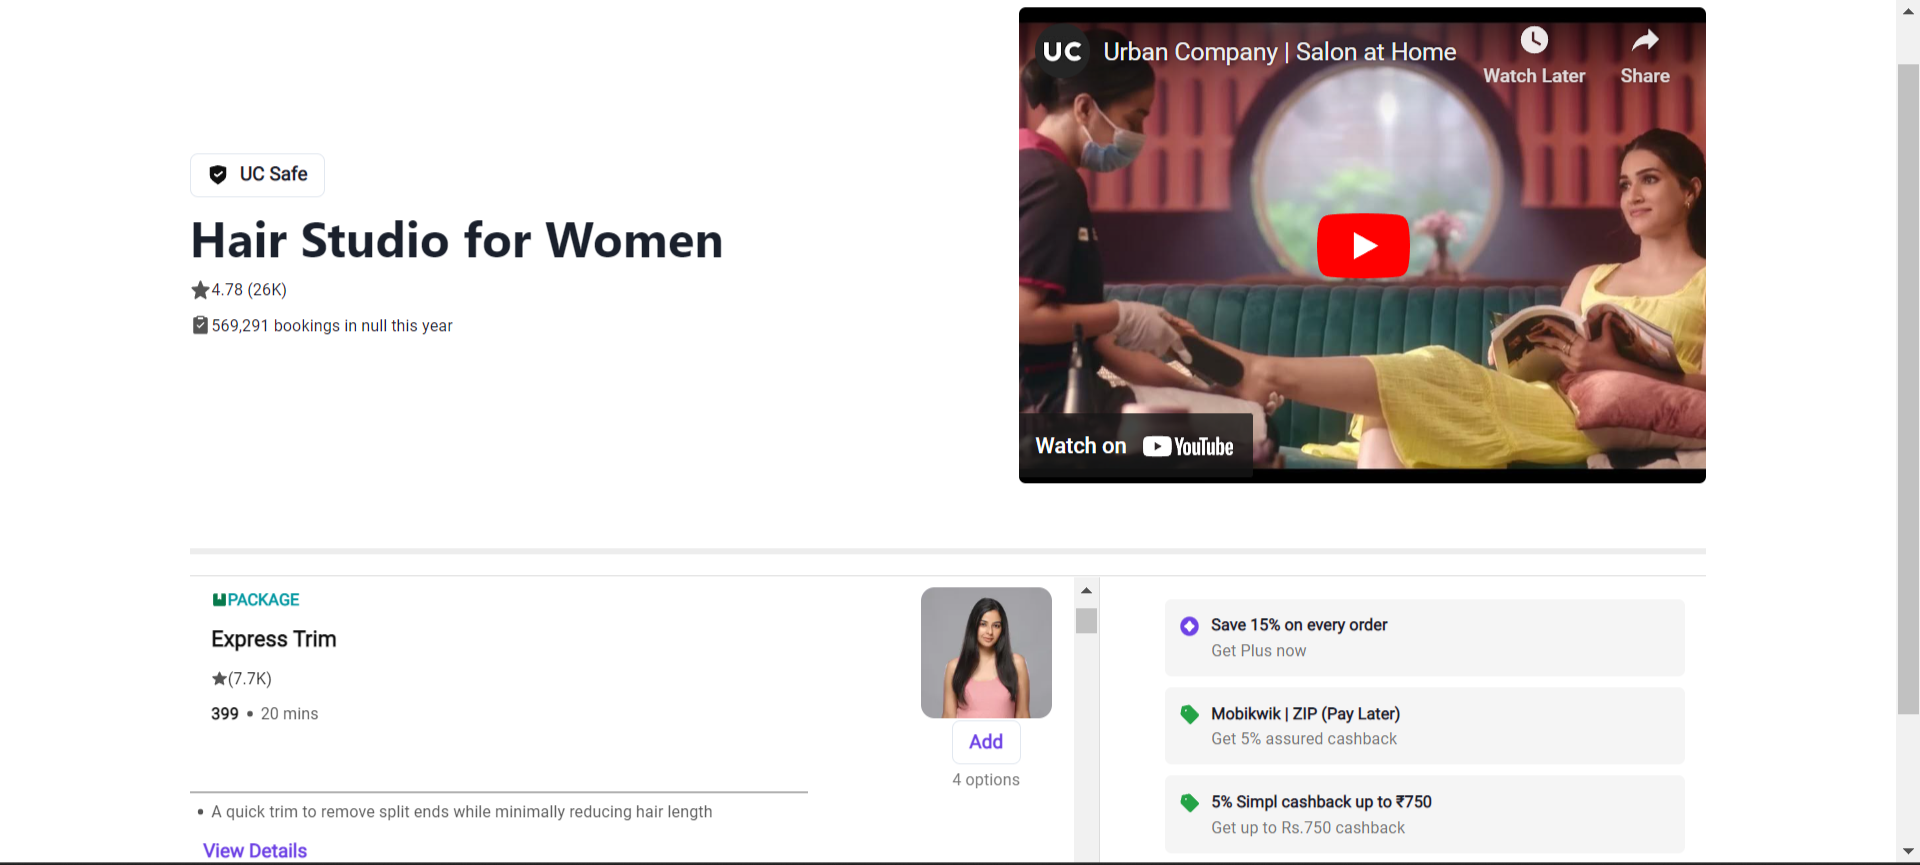
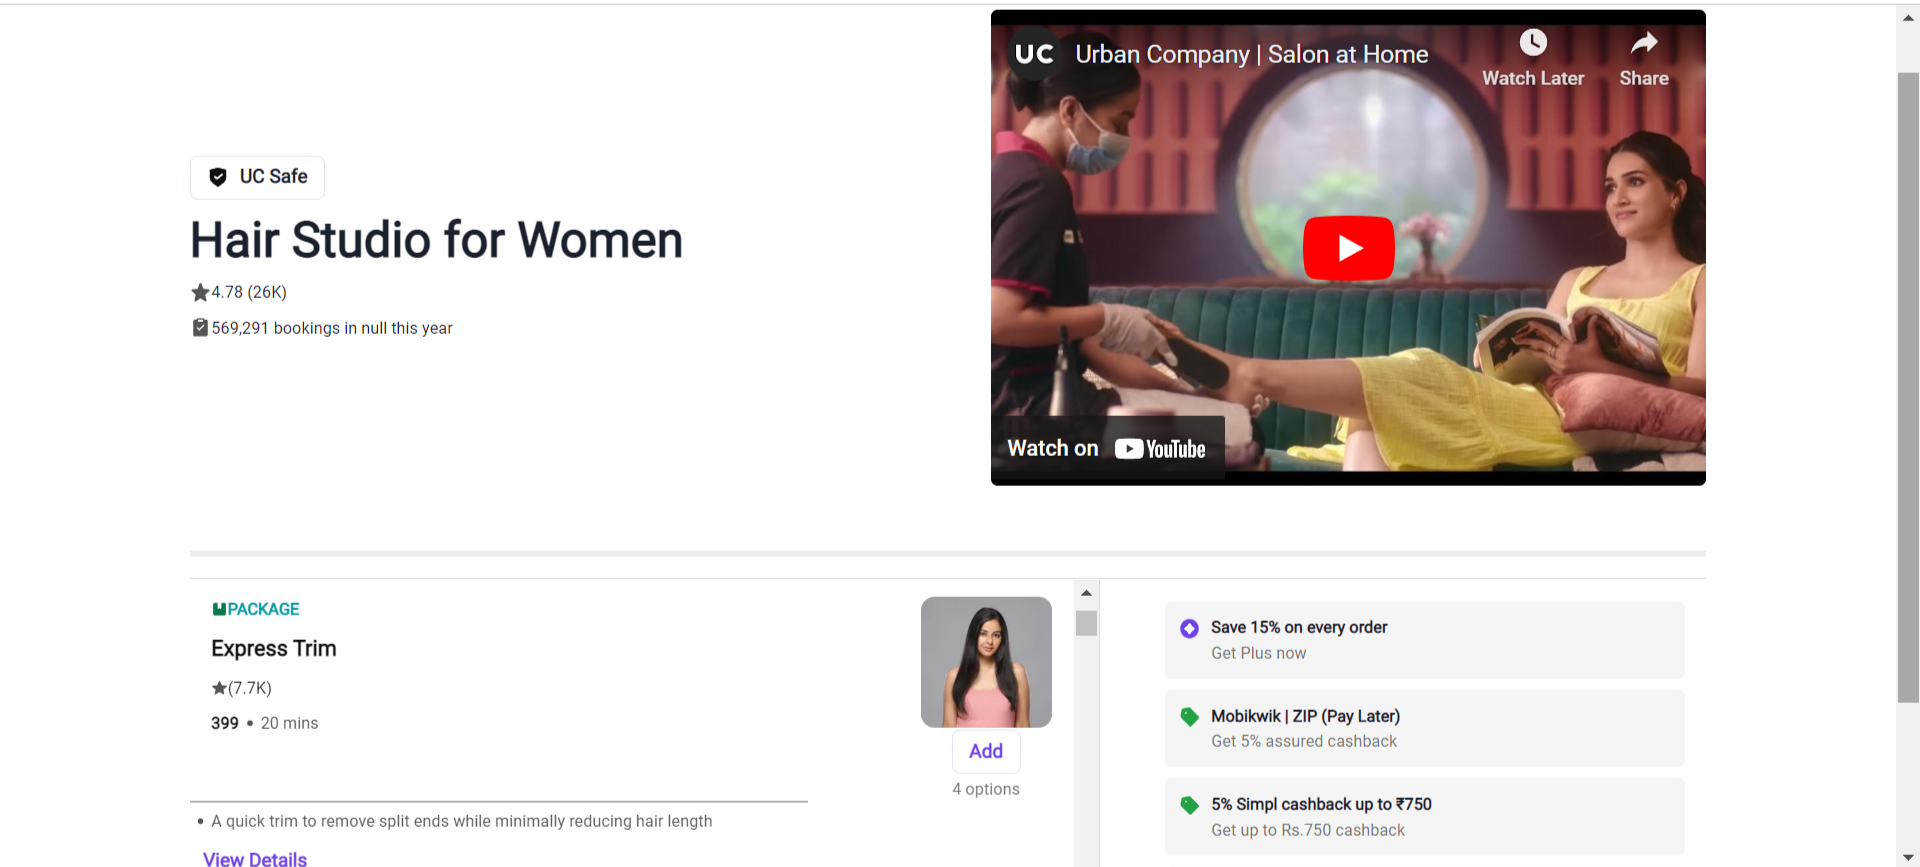
readme file update

diff --git a/frontend/src/Pages/Payments.jsx b/frontend/src/Pages/Payments.jsx
@@ -4,7 +4,7 @@ import "./Payments.css";
 import {  ArrowBackIcon,ChevronRightIcon } from '@chakra-ui/icons'
 import { Link } from 'react-router-dom';
 
-const Payments = () => {
+const Payments = ({total}) => {
   return (
     <div style={{backgroundColor:"#e5e5e5"}}>
       <div className='contain'>
@@ -17,7 +17,7 @@ const Payments = () => {
             </Box>
             <Box  align='stretch'>
               <p>Select payment method</p>
-              <Text className='amount'>Amount to pay : ₹ 1,398</Text>
+              <Text className='amount'>Amount to pay : ₹ 1,398 {total}</Text>
             </Box>
           </Stack>
         </Box>

diff --git a/frontend/src/Components/ProductPage.jsx b/frontend/src/Components/ProductPage.jsx
@@ -64,7 +64,7 @@ const ProductPage = ({url,heading,rating}) => {
               </Button>
             </Flex>
             <Flex>
-              <Heading as="h1">{heading}</Heading>
+              <Heading as="h1" style={{fontFamily:"Roboto"}}>{heading}</Heading>
             </Flex>
             <Flex fontSize="12px">
               <svg
